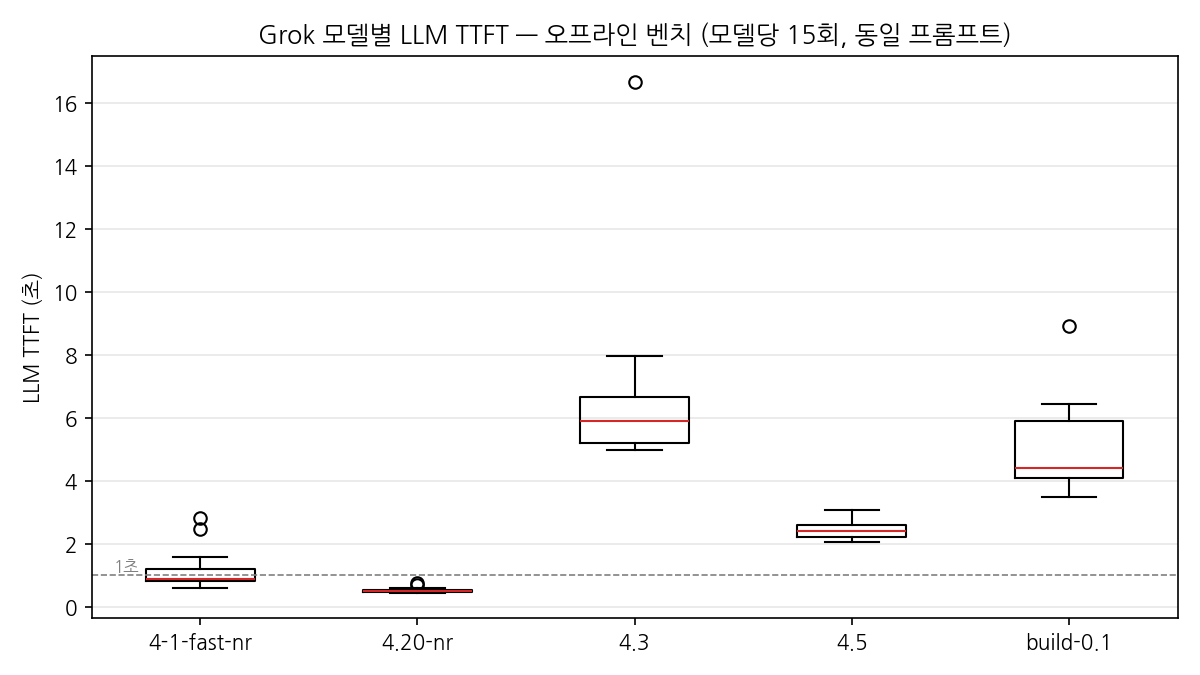
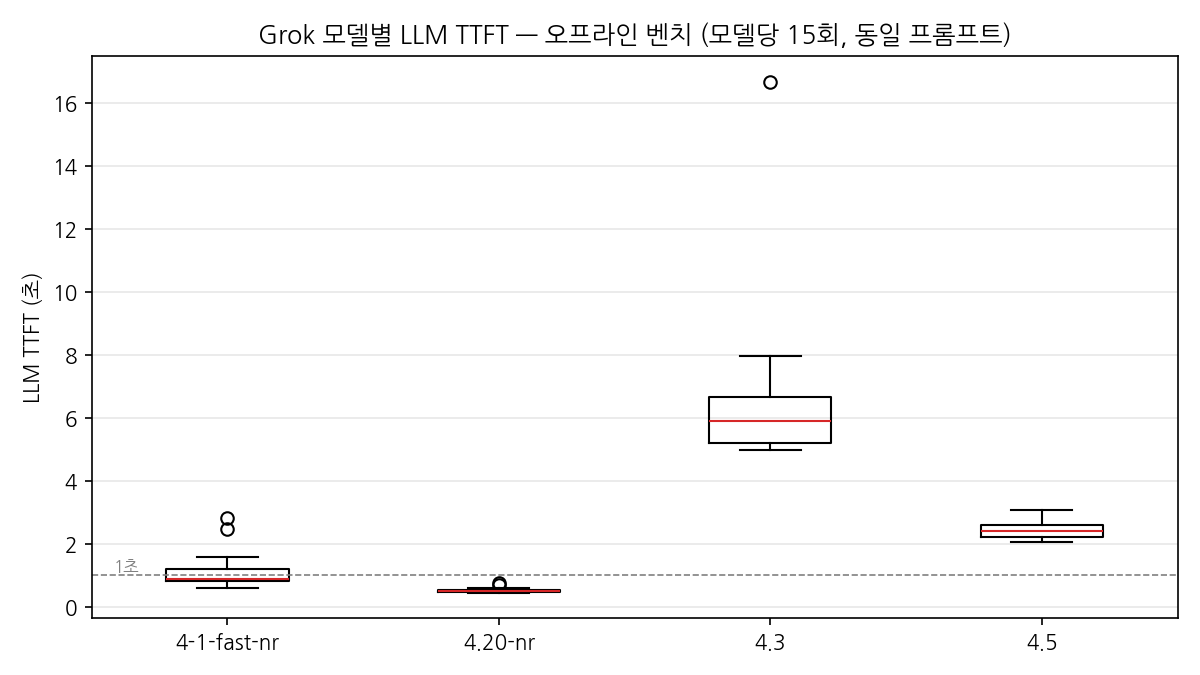
docs: 리포트에서 build-0.1 제외·라이브 차트 공통 7턴 통일

diff --git a/scripts/report_model_eval.py b/scripts/report_model_eval.py
@@ -43,8 +43,12 @@ def load(path):
     return [json.loads(l) for l in path.open(encoding="utf-8")]
 
 
+BENCH_EXCLUDE = {"grok-build-0.1"}  # 용도 불명(코딩용 추정)·음성 부적합 확정 → 리포트에서 제외
+
+
 def bench_stats():
-    rows = [r for r in load(BENCH) if not r["warmup"] and r.get("ttft") is not None]
+    rows = [r for r in load(BENCH) if not r["warmup"] and r.get("ttft") is not None
+            and r["model"] not in BENCH_EXCLUDE]
     out = {}
     for m in dict.fromkeys(r["model"] for r in rows):  # 등장 순서 유지
         ts = [r["ttft"] for r in rows if r["model"] == m]
@@ -87,11 +91,12 @@ def chart_bench(bench):
 
 def chart_live(live):
     fig, (ax1, ax2) = plt.subplots(1, 2, figsize=(11, 4.5))
+    common = min(len(s["totals"]) for s in live.values())  # 세션 길이가 달라 공통 구간만 비교
     for m, s in live.items():
-        ax1.plot(range(1, s["n"] + 1), s["totals"], marker="o", ms=4, label=SHORT[m])
+        ax1.plot(range(1, common + 1), s["totals"][:common], marker="o", ms=4, label=SHORT[m])
     ax1.set_xlabel("턴 순서")
     ax1.set_ylabel("발화 종료 → 첫 오디오 (초)")
-    ax1.set_title("라이브 세션 턴별 총 지연")
+    ax1.set_title(f"라이브 세션 턴별 총 지연 (공통 구간 처음 {common}턴)")
     ax1.axhline(0.78, color="gray", ls="--", lw=0.8)
     ax1.annotate("Grok 네이티브 TTFA 0.78s", xy=(0.02, 0.80), xycoords=("axes fraction", "data"),
                  va="bottom", fontsize=8, color="gray")

diff --git a/reports/model-eval-20260721.md b/reports/model-eval-20260721.md
@@ -8,7 +8,7 @@
 ## 1. 평가 방법
 
 **오프라인 벤치 (지연 신뢰성 측정)** — `scripts/bench_llm_ttft.py`
-- 후보 5종, 모델당 워밍업 1회(제외) + 본측정 15회, 라운드로빈 인터리빙으로 시간대 편향 분산
+- 모델당 워밍업 1회(제외) + 본측정 15회, 라운드로빈 인터리빙으로 시간대 편향 분산
 - keep-alive 연결 재사용(워커의 지속 연결과 동일 조건), 동일한 한국어 면접 프롬프트
 - TTFT = 첫 "본문" 토큰까지의 시간. reasoning 모델의 사고 토큰은 음성으로 나갈 수 없으므로 제외
 
@@ -32,11 +32,10 @@
 | **grok-4.20-0309-non-reasoning** | 15 | **0.54** | **0.52** | **0.68** | 0.45~0.76 |
 | grok-4.3 | 14 | 6.74 | 5.89 | 7.97 | 4.98~16.68 |
 | grok-4.5 | 15 | 2.44 | 2.42 | 2.76 | 2.05~3.07 |
-| grok-build-0.1 | 15 | 5.02 | 4.42 | 6.45 | 3.49~8.91 |
 
 ![벤치 TTFT](bench-ttft-20260721.png)
 
-reasoning 계열(4.3, 4.5, build-0.1)은 사고 토큰 생성 때문에 첫 본문 토큰까지 2.4~6초 이상 —
+reasoning 계열(4.3, 4.5)은 사고 토큰 생성 때문에 첫 본문 토큰까지 2.4초 이상 —
 실시간 음성 대화 기준선(1초 내외)을 크게 벗어난다. 라이브 후보는 non-reasoning 2종에
 품질 대조군으로 grok-4.5를 더해 3종으로 압축했다.
 